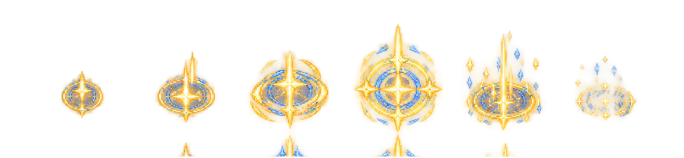
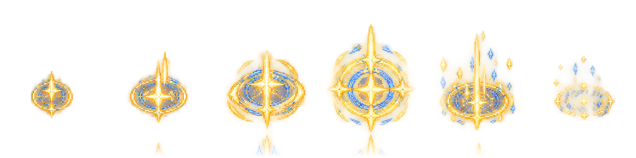
Polish: AG side attacks no longer spin the head (ATK1 draws head and blade on opposite sides in both side rows -> side views use DEF step+thrust and SK2 sweep through a new per-animation 'side' override), AG barrier / hurt skip the mismatched columns; Warden guard keeps the shield up from the side; 

diff --git a/tools/build-vfx.js b/tools/build-vfx.js
@@ -47,6 +47,10 @@ const SETS = {
     src: 'desgin/VFX/AG/DW', detectRows: true, clean: true,
     names: { SK1: 'dw_shield', SK2: 'dw_burst', SK3: 'dw_circle', SK4: 'dw_crest', SK5: 'dw_pillar', SK6: 'dw_knight', SK7: 'dw_dome' },
     rows: { SK1: 0, SK2: 0, SK3: 0, SK5: 0, SK6: 0, SK7: 0 },
+    // the glow of these sheets joins neighbouring frames / rows into one blob: fade it out over 40 source px at the
+    // cut (column AND row) instead of a straight edge
+    feather: 40,
+    recenter: { SK3: true }, // the magic-circle frames sit unevenly in their cells (the circle jumped sideways)
   },
   aw: {
     src: 'desgin/VFX/AW', detectRows: true, clean: true,
@@ -138,6 +142,9 @@ function extractRow(img, file, set) {
   }
   cuts.push(W);
   const colOfX = (x) => { let k = 0; while (k < COLS - 1 && x >= cuts[k + 1]) k++; return k; };
+  const FEATHER = set.feather || CUT_FEATHER;
+  // row boundaries (half-way to the neighbouring rows): big blobs split per pixel fade out there when set.feather is on
+  const rb0 = ROW > 0 ? (rowC[ROW - 1] + rowC[ROW]) / 2 : -Infinity, rb1 = ROW < rowC.length - 1 ? (rowC[ROW] + rowC[ROW + 1]) / 2 : Infinity;
   // blob -> frame: whole blob by centroid, unless it crosses a cut (then per pixel, feathered)
   const owner = comps.map((c) => (colOfX(c.minx) === colOfX(c.maxx) ? colOfX(c.sx / c.n) : -2));
   const frames = [...Array(COLS)].map(() => ({ px: [], minx: 1e9, maxx: -1, miny: 1e9, maxy: -1 }));
@@ -149,8 +156,9 @@ function extractRow(img, file, set) {
     if (k === -2) {
       k = colOfX(x);
       const dist = Math.min(k > 0 ? x - cuts[k] : Infinity, k < COLS - 1 ? cuts[k + 1] - 1 - x : Infinity);
-      a = Math.round(a * Math.min(1, dist / CUT_FEATHER));
+      a = Math.round(a * Math.min(1, dist / FEATHER));
     }
+    if (set.feather) a = Math.round(a * Math.max(0, Math.min(1, Math.min(y - rb0, rb1 - y) / FEATHER))); // nothing from the next row
     if (!a) continue;
     const f = frames[k];
     f.px.push(p, a);
@@ -159,13 +167,16 @@ function extractRow(img, file, set) {
   // common frame size around each cell centre / the row centre
   const cy = rowC[ROW];
   let hw = cw / 2, hh = H / 8;
-  frames.forEach((f, k) => { if (f.maxx < 0) return; const cx = (k + 0.5) * cw; hw = Math.max(hw, cx - f.minx + 2, f.maxx - cx + 3); hh = Math.max(hh, cy - f.miny + 2, f.maxy - cy + 3); });
+  // recenter: frames drawn off their grid cell (a sheet laid out unevenly) are centred on their own content
+  const rec = set.recenter && set.recenter[file];
+  const fcx = (f, k) => (rec && f.maxx >= 0 ? (f.minx + f.maxx) / 2 : (k + 0.5) * cw);
+  frames.forEach((f, k) => { if (f.maxx < 0) return; const cx = fcx(f, k); hw = Math.max(hw, cx - f.minx + 2, f.maxx - cx + 3); hh = Math.max(hh, cy - f.miny + 2, f.maxy - cy + 3); });
   const fw = Math.ceil(hw * SCALE) * 2, fh = Math.ceil(hh * SCALE) * 2;
   const out = png.create(fw * COLS, fh);
   frames.forEach((f, k) => {
     // accumulate owned pixels into 2x2 output blocks (premultiplied)
     const acc = new Float64Array(fw * fh * 4);
-    const ox = (k + 0.5) * cw - fw / 2 / SCALE, oy = cy - fh / 2 / SCALE;
+    const ox = fcx(f, k) - fw / 2 / SCALE, oy = cy - fh / 2 / SCALE;
     for (let i = 0; i < f.px.length; i += 2) {
       const p = f.px[i], a = f.px[i + 1] / 255, x = p % W, y = (p / W) | 0;
       const X = Math.floor((x - ox) * SCALE), Y = Math.floor((y - oy) * SCALE);

diff --git a/src/skills/aegisGuardian.js b/src/skills/aegisGuardian.js
@@ -16,19 +16,21 @@ export const AG_ANIMS = {
   idle: { sheet: 'walk', cols: [0] },
   walk: { sheet: 'walk', cols: [0, 1, 2, 3, 4, 5], fps: 8, loop: true, bob: 2 },
   run: { sheet: 'walk', cols: [0, 1, 2, 3, 4, 5], fps: 12, loop: true, bob: 3 },
-  atk1: { sheet: 'atk1', cols: [1, 2] },          // overhead cut
-  atk2: { sheet: 'atk1', cols: [3, 3] },          // thrust
-  atk3: { sheet: 'atk1', cols: [1, 2, 2, 2] },    // full sweeping arc
+  // ATK1's side rows turn the head away from the blow (both rows) -> side views use DEF (shield step + thrust) and
+  // SK2 (sweeping arc), which keep head and blade on the same side
+  atk1: { sheet: 'atk1', cols: [1, 2], side: { sheet: 'guard', cols: [1, 4] } },          // overhead cut
+  atk2: { sheet: 'atk1', cols: [3, 3], side: { sheet: 'guard', cols: [3, 4, 4] } },       // thrust
+  atk3: { sheet: 'atk1', cols: [1, 2, 2, 2], side: { sheet: 'sk2', cols: [1, 2, 3, 3] } }, // full sweeping arc
   dodge: { sheet: 'dash', cols: [2, 3, 4] },      // real dash art (lean + speed lines)
   guard: { sheet: 'guard', cols: [3] },           // shield square to the front in all 4 directions
   shieldBash: { sheet: 'sk1', cols: [1, 2, 3, 4] },
   guardianSlash: { sheet: 'sk2', cols: [1, 2, 3, 4] },
   challenge: { sheet: 'sk4', cols: [1, 2, 3, 3, 4] },
-  barrier: { sheet: 'sk5', cols: [1, 2, 3, 3, 4] },
+  barrier: { sheet: 'sk5', cols: [1, 3, 3, 5] },     // col 2 / 4 point the sword opposite the head
   counter: { sheet: 'sk6', cols: [3, 3, 4, 4] },  // golden flash on the shield -> riposte
   perfectGuard: { sheet: 'guard', cols: [3, 3, 4] }, // shield up -> riposte thrust
   ascension: { sheet: 'ult', cols: [1, 2, 2, 3, 3, 4] },
-  hurt: { sheet: 'hit', cols: [2, 3] },
+  hurt: { sheet: 'hit', cols: [1, 2] },
   death: { sheet: 'hit', cols: [2, 3, 3] },
 };
 

diff --git a/src/player/playerSprites.js b/src/player/playerSprites.js
@@ -6,6 +6,8 @@ import { Assets, makeCanvas } from '../core/assets.js';
 // To swap in new art, export sheets with the same grid + anchor and update atlas.json.
 
 // animation name -> sheet + column sequence (Umbral Sword table; other classes pass their own)
+//   side: { sheet?, cols?, fps? } — used instead for the left / right views (dir 2 / 3), for AI sheets whose side rows
+//   draw the head and the blow facing different ways (the character seemed to spin mid-attack)
 export const ANIMS = {
   idle: { sheet: 'walk', cols: [0] },
   walk: { sheet: 'walk', cols: [1, 2, 3, 4, 5], fps: 10, loop: true },
@@ -39,12 +41,13 @@ export class PlayerSprites {
       this.sheets[name] = { ...s, img, flash: tint(img, '#ffffff'), ghost: tint(img, ghostColor) };
     }
     // every animation must point at a sheet that exists (catches typos at load, not mid-fight)
-    for (const [k, a] of Object.entries(anims)) if (!this.sheets[a.sheet]) throw new Error(`Animation "${k}" uses missing sheet "${a.sheet}" (${preset})`);
+    for (const [k, a] of Object.entries(anims)) for (const sh of [a.sheet, a.side && a.side.sheet]) if (sh && !this.sheets[sh]) throw new Error(`Animation "${k}" uses missing sheet "${sh}" (${preset})`);
   }
 
   // returns a drawable frame descriptor
   frame(animName, t, dir, variant = 'img') {
-    const a = this.anims[animName] || this.anims.idle;
+    const a0 = this.anims[animName] || this.anims.idle;
+    const a = dir >= 2 && a0.side ? { ...a0, ...a0.side } : a0;
     const s = this.sheets[a.sheet];
     let idx;
     if (a.fps) idx = Math.floor(t * a.fps) % a.cols.length;

diff --git a/src/skills/wardenOfDawn.js b/src/skills/wardenOfDawn.js
@@ -22,7 +22,8 @@ export const WD_ANIMS = {
   atk2: { sheet: 'atk1', cols: [2, 3, 3] },        // lunging thrust
   atk3: { sheet: 'atk2', cols: [1, 2, 3, 3, 4] },  // blue dawn arc
   dodge: { sheet: 'dash', cols: [1, 2, 3, 4] },
-  guard: { sheet: 'sk1', cols: [1] },              // shield square to the front
+  // shield square to the front; the side views of SK1 col 1 lose the shield -> the walk stance (shield forward)
+  guard: { sheet: 'sk1', cols: [1], side: { sheet: 'walk', cols: [0] } },
   dawnShield: { sheet: 'sk1', cols: [1, 2, 2, 4] },
   radiantChain: { sheet: 'sk2', cols: [1, 2, 3, 3, 4] },
   dawnBastion: { sheet: 'sk3', cols: [1, 2, 3, 3, 4] },
